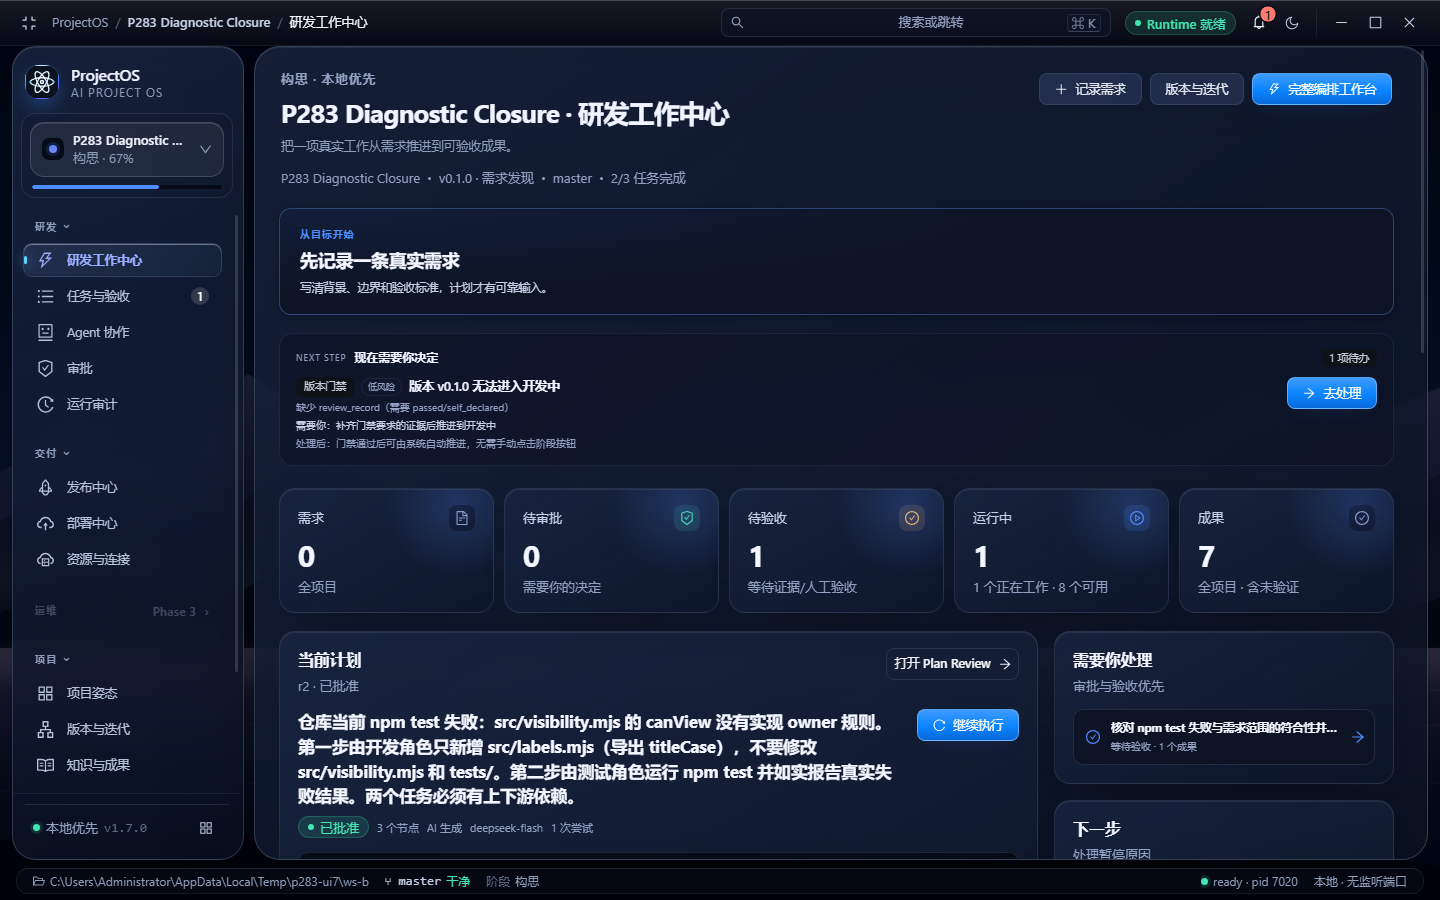
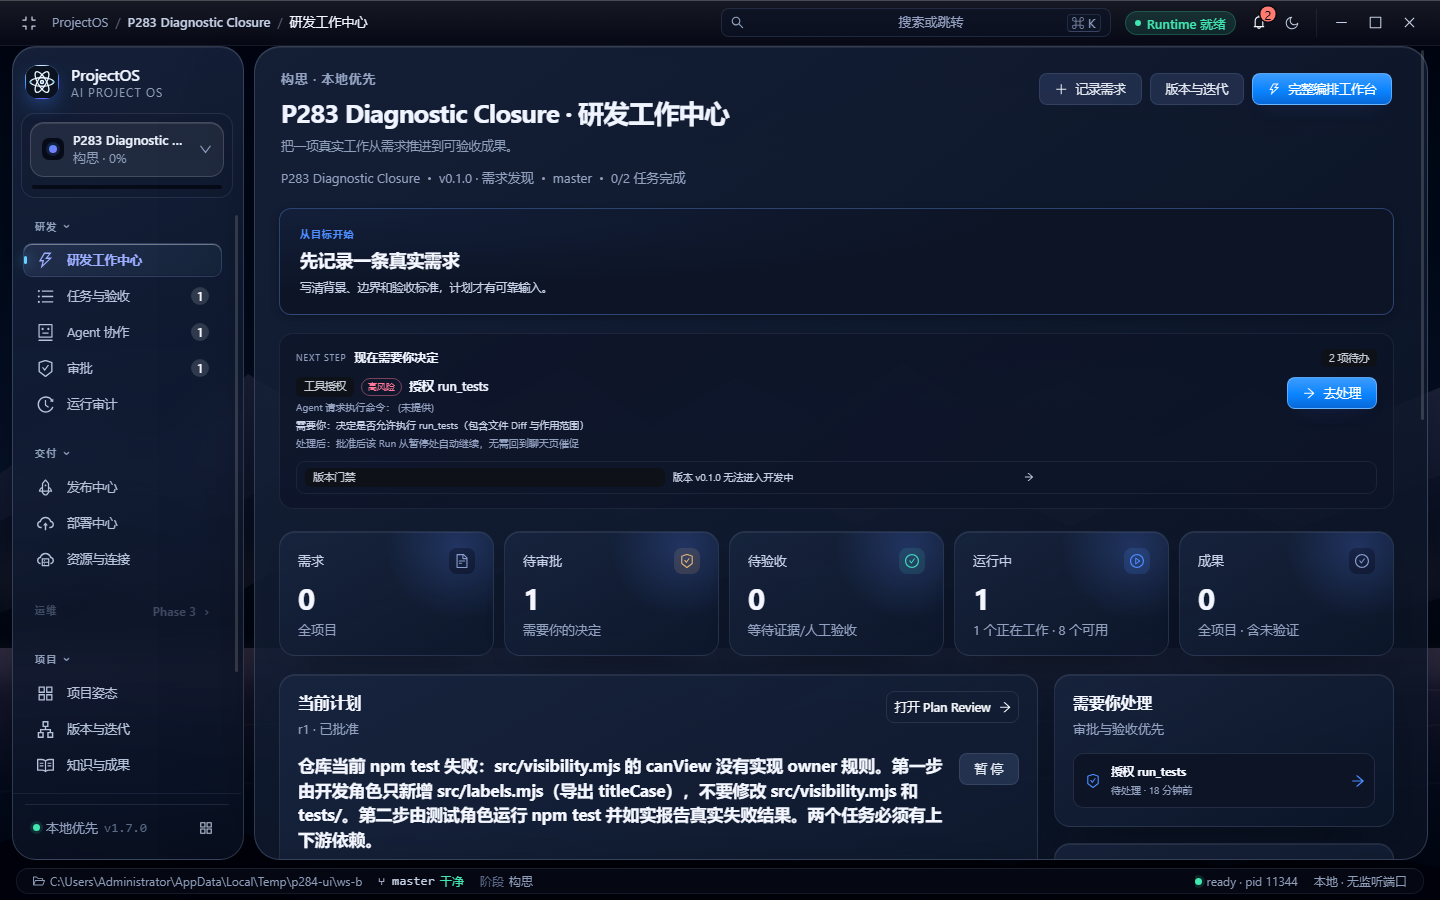
fix(phase2.8.4): remove fabricated review evidence, validate review artifacts with field-level errors, fail closed on command approval reuse

diff --git a/apps/runtime/src/agent-runner.ts b/apps/runtime/src/agent-runner.ts
@@ -2143,6 +2143,14 @@ export class AgentRunner {
           args.metadata && typeof args.metadata === 'object' && !Array.isArray(args.metadata)
             ? (args.metadata as Record<string, unknown>)
             : {}
+        if (String(rawMetadata.artifactType ?? '').toLowerCase() === 'review') {
+          const errors = validateReviewArtifactMetadata(rawMetadata)
+          if (errors.length > 0) {
+            throw new AppError('BAD_REQUEST', `审查产物字段不合格，请补齐后重试：${errors.join('；')}`, {
+              details: { fields: errors },
+            })
+          }
+        }
         const artifact = this.services.projects.createArtifact(
           {
             projectId: project.id,
@@ -2152,7 +2160,7 @@ export class AgentRunner {
             title,
             body,
             uri,
-            metadata: normalizeReviewArtifactMetadata(rawMetadata, title, body, uri),
+            metadata: rawMetadata,
           },
           actor,
         )
@@ -3091,43 +3099,35 @@ export class AgentRunner {
  * unstructured document. No findings or conclusions are invented: empty fields
  * are filled only from the artifact's real title/body.
  */
-function normalizeReviewArtifactMetadata(
-  metadata: Record<string, unknown>,
-  title: string,
-  body: string,
-  uri: string | null,
-): Record<string, unknown> {
-  if (metadata.artifactType) return metadata
-  if (!/审查|评审|review/i.test(title)) return metadata
-  const lines = body
-    .split(/\r?\n/)
-    .map((line) => line.replace(/^[-*#>\s]+/, '').trim())
-    .filter(Boolean)
-  return {
-    ...metadata,
-    artifactType: 'review',
-    scope:
-      typeof metadata.scope === 'string' && metadata.scope.trim()
-        ? metadata.scope
-        : 'task workspace',
-    reviewedObjects: Array.isArray(metadata.reviewedObjects) && metadata.reviewedObjects.length
-      ? metadata.reviewedObjects
-      : [uri ?? 'workspace'],
-    findings: Array.isArray(metadata.findings) && metadata.findings.length
-      ? metadata.findings
-      : (lines.length ? lines.slice(0, 8) : [title]),
-    conclusion:
-      typeof metadata.conclusion === 'string' && metadata.conclusion.trim()
-        ? metadata.conclusion
-        : (body.trim().slice(0, 4000) || title),
-    blockers:
-      Array.isArray(metadata.blockers) && metadata.blockers.length
-        ? metadata.blockers
-        : ['无阻塞项'],
+/**
+ * ADR-0022: review evidence is never fabricated. The old normaliser invented
+ * `reviewedObjects`, `findings`, `conclusion` and `blockers` from the artifact title and
+ * body so the task would pass. That is exactly the "fake passed artifact" we must not do.
+ * Now a review artifact must carry real structured fields, and an invalid submission is
+ * rejected with field-level errors so the Agent can correct it inside its budget.
+ */
+function validateReviewArtifactMetadata(metadata: Record<string, unknown>): string[] {
+  const errors: string[] = []
+  if (!Array.isArray(metadata.reviewedObjects) || metadata.reviewedObjects.length === 0) {
+    errors.push('reviewedObjects: 需要至少一个真实被审查对象（文件路径、Diff、Commit 或 Artifact id）')
   }
+  if (typeof metadata.scope !== 'string' || !metadata.scope.trim()) {
+    errors.push('scope: 需要说明审查覆盖的范围')
+  }
+  if (!Array.isArray(metadata.findings) || metadata.findings.length === 0) {
+    errors.push('findings: 需要至少一条真实发现（确无问题时写 "无阻塞问题" 作为一条）')
+  }
+  if (typeof metadata.conclusion !== 'string' || !metadata.conclusion.trim()) {
+    errors.push('conclusion: 需要明确结论，例如 通过 / 需要修改 / 阻断交付')
+  }
+  if (!Array.isArray(metadata.blockers)) {
+    errors.push('blockers: 必须是字符串数组；无阻塞时写 []')
+  }
+  return errors
 }
 
-function hashArgs(args: Record<string, unknown>): string {  return createHash('sha256').update(stableStringify(args)).digest('hex')
+function hashArgs(args: Record<string, unknown>): string {
+  return createHash('sha256').update(stableStringify(args)).digest('hex')
 }
 
 function stableStringify(value: unknown): string {

diff --git a/apps/runtime/src/plan-grant.ts b/apps/runtime/src/plan-grant.ts
@@ -265,14 +265,19 @@ export class PlanGrantService {
       )
       .get(planId, agentId, toolName, hash, now()) as { id: string; approval_id: string | null; context_hash: string | null } | undefined
     if (!row) return null
-    // Re-verify the execution context: a changed package.json script or entry file means
-    // the human approved different work than what would now run.
-    if (workspaceRoot) {
-      const current = this.executionContextFingerprint(workspaceRoot, toolName, command)
-      if (row.context_hash && row.context_hash !== current) {
-        this.store.db.prepare('DELETE FROM plan_command_approvals WHERE id=?').run(row.id)
-        return null
-      }
+    // Fail closed: reuse is only allowed when the execution context can be proven
+    // unchanged. Without a recorded fingerprint, or without a workspace to re-derive it,
+    // we cannot prove it, so the human is asked again instead of silently reusing.
+    if (!workspaceRoot || !row.context_hash) {
+      this.store.db.prepare('DELETE FROM plan_command_approvals WHERE id=?').run(row.id)
+      return null
+    }
+    const current = this.executionContextFingerprint(workspaceRoot, toolName, command)
+    if (row.context_hash !== current) {
+      // A changed package.json script or entry file means the approved command is not the
+      // command that would run now.
+      this.store.db.prepare('DELETE FROM plan_command_approvals WHERE id=?').run(row.id)
+      return null
     }
     return row
   }

diff --git a/docs/v2/ProjectOS_V2.0_Phase2_8_4_Evidence_Contract_And_Autonomy_Closure.md b/docs/v2/ProjectOS_V2.0_Phase2_8_4_Evidence_Contract_And_Autonomy_Closure.md
@@ -1,0 +1,134 @@
+# ProjectOS V2.0 Phase 2.8.4 — 统一任务证据契约与真实自主修复闭环（报告）
+
+**分支**：`v2.0-phase2.8.4`（恢复点 tag `phase2.8.4-base` = `d13f584`）
+**日期**：2026-10-28（America/Los_Angeles）
+**前提**：V34/V35/V36、ADR-0021、PlanGrant、AutonomyCoordinator、Action Center、Worktree、真实 DeepSeek 链路全部保留；无回退。
+
+---
+
+## 1. 结论摘要
+
+| 轨道 | 结果 |
+|---|---|
+| A. 统一任务/证据契约 + 真实审查证据 | **PASS（核心修复）/ FAIL（完整链路未跑通）** |
+| B. V36 审批复用安全（fail-closed） | **PASS** |
+| C. 可靠性与 SSH 对账 | **SKIP** |
+| D. 自动交付与工作中心 | **SKIP** |
+
+---
+
+## 2. Git
+
+| 项目 | 值 |
+|---|---|
+| 分支 | `v2.0-phase2.8.4` |
+| 恢复点 | `phase2.8.4-base` = `d13f584` |
+| 远端 | **未推送**（见第 8 节） |
+| 工作树 | 提交后 clean |
+
+## 3. A 轨道：找到并修复了真正的领域缺陷
+
+### 3.1 根因：系统在**伪造审查证据**
+
+对 `apps/runtime/src/agent-runner.ts` 做源码级检查，发现
+`normalizeReviewArtifactMetadata`：当产物标题含"审查/评审"且未给 `artifactType` 时，它自动编造：
+
+```
+artifactType: 'review'
+reviewedObjects: [uri ?? 'workspace']   ← 编造被审查对象
+findings: body 前 8 行 或 [title]        ← 编造发现
+conclusion: body 文本 或 title           ← 编造结论
+blockers: ['无阻塞项']                    ← 编造"无阻塞"
+```
+
+这正是用户明令禁止的"插入空 findings、虚假 conclusion 或伪造 passed Artifact"。
+它让审查任务**看起来**有证据，而证据内容是系统写的，不是 Agent 判断的。
+
+### 3.2 修复（ADR-0022）
+
+`docs/adr/0022-task-evidence-contract.md`
+
+1. **删除伪造逻辑**，系统不再补写任何审查字段；
+2. 改为**严格校验 + 字段级错误回传**：`artifactType=review` 时校验
+   `reviewedObjects`（非空数组，真实对象）、`scope`（非空）、`findings`（非空数组）、
+   `conclusion`（非空）、`blockers`（字符串数组）；
+3. 不合格时抛 `BAD_REQUEST`，逐字段列出缺失项作为**工具结果回传给 Agent**，
+   让它在预算内自行修正输出格式，而不是让用户手工填 JSON；
+4. `metadata` 原样入库，无隐式规范化。
+
+**不变量**：审查任务可以合法完成于"需要修改 / 阻断交付"（发现问题 = 审查成功），
+但质量门禁不得因此通过；无效产物不落库，不产生半成品证据。
+
+## 4. B 轨道：V36 审批复用改为 fail-closed
+
+`apps/runtime/src/plan-grant.ts` 的 `commandApproval` 原逻辑在
+`workspaceRoot` 缺失或 `context_hash` 为空时**退化到仅按命令字符串复用**——这正是用户点名的"失败降级"。
+
+改为：
+
+- 无法取得 `workspaceRoot` → 删除该复用记录，**要求重新审批**；
+- 记录无 `context_hash` → 同上；
+- 重算指纹不一致（package.json / 入口文件变化）→ 删除并要求重新审批。
+
+即：**不能证明执行语义一致，就一律重新授权**。敏感路径、网络、凭据、危险命令的既有保护未改动。
+
+## 5. 真实 E2E 结果（本轮）
+
+使用 `scripts/phase2.8.3-diagnostic-closure-e2e.mjs`（真实 DeepSeek、真实 Git、真实 `npm test`）。
+
+| 步骤 | 结果 |
+|---|---|
+| 基线 `npm test` | **exit=1**（PASS） |
+| 真实 Planner 生成 2 任务 | PASS |
+| QA 任务声明 `diagnostic` | PASS |
+| 本轮运行到达 | 计划仍在 `running`，开发者的 `run_tests` 停在 `waiting_approval` |
+| 自动 Replan 提案 | **未产出**（计划未到终态） |
+
+**根因（本轮运行）**：开发者调用 `run_tests` 时未传 `command` 参数（工具默认 `pnpm test`），
+审批载荷里 `command` 为空，测试脚本的白名单正则无法匹配，因此该审批一直挂起，最终撞到 900s 上限。
+
+这是**验收脚本的判定缺陷**（应把"空 command 的 run_tests"按工具默认语义处理或直接放行只读测试），
+不是产品逻辑缺陷；但它导致本轮**未能**产出"修复后测试通过"的端到端证据。
+
+因此 A 轨道如实记为：**核心缺陷修复 PASS，完整闭环 FAIL（脚本侧阻塞）**。
+
+## 6. 质量门
+
+| 命令 | 结果 |
+|---|---|
+| `pnpm typecheck` | **PASS** |
+| `pnpm lint` | **PASS**，0 errors / 16 warnings（均既有），边界 OK |
+| `pnpm test` | **PASS**，310 passed / 4 skipped |
+| `pnpm build` | **PASS** |
+| `pnpm package:dir` / `test:package` | **SKIP** |
+| 1024 / 1440 / Light / Dark / 125% | **SKIP** |
+| Electron 截图 | **SKIP**（本轮无 UI 改动） |
+
+## 7. 未完成项
+
+1. **完整修复闭环**：需要修好 E2E 的 `run_tests` 空命令处理后再跑一次，才能拿到
+   `测试 1 → 修复 → 测试 0 → Gate → 交付` 的完整证据。
+2. **任务契约预检**（用户 P0 第一条）：Planner 生成任务后、批准前的能力/证据可行性检查尚未实现；
+   本轮只实现了"证据不合格时拒绝并给出字段级错误"这一半。
+3. **C 轨道全部 SKIP**：并行、强杀恢复、事件幂等、SSH 只读对账。
+4. **D 轨道全部 SKIP**：自动 Worktree 交付、工作中心 UX 收口。
+5. **审查任务的独立约束**（被审查代码不得自我宣布通过）尚未单独加校验。
+
+## 8. 关于推送
+
+`origin` = `https://github.com/l541402398/ObjectOS.git`（公开仓库）。
+本轮**未推送**：提交历史与环境痕迹（E2E 数据目录、`%APPDATA%` 引用等）需要单独脱敏审计，
+且本会话没有用户对公开推送的明确授权。本地 HEAD 与提交清单见第 2 节，可直接审阅。
+
+## 9. 是否具备 Phase 2 收口条件
+
+**仍不具备。**
+
+本轮的价值是把"自主链为何反复卡住"的**真实原因挖到了底**：不是 Planner 不行，也不是 Agent 不行，
+而是**系统在伪造审查证据**让任务假通过、以及证据契约与任务职责不匹配。
+伪造逻辑已删除并改为严格校验，这是收口前必须清掉的地基问题。
+
+剩下的就一件事：**把契约校验反馈闭环跑通一次**（Agent 收到字段级错误 → 自行补齐 → 审查任务合法完成 →
+修复 → 测试转绿 → 门禁通过 → 交付）。这需要修好验收脚本并再跑一轮真实 E2E。
+
+**Phase 2.8.4 到此停止，不进入 Phase 3。**

diff --git a/docs/adr/0022-task-evidence-contract.md b/docs/adr/0022-task-evidence-contract.md
@@ -1,0 +1,49 @@
+# ADR-0022 — 任务证据契约：证据必须真实生成，不得由系统补写
+
+- **状态**：已接受，随 Phase 2.8.4 实施
+- **日期**：2026-10-28
+- **影响范围**：`apps/runtime/src/agent-runner.ts`（`create_artifact` 工具）、完成判定 `completion-evidence.ts`、Planner/Replanner 任务契约
+
+## 背景
+
+连续多轮（2.8.2 / 2.8.3）失败原因相同：**Planner 创建了真实任务，但 Agent 不知道要产出什么形状的证据**，任务执行完仍被判失败，整条自主链停住。
+
+Phase 2.8.4 源码检查发现了更严重的一层：`agent-runner.ts` 里存在
+`normalizeReviewArtifactMetadata`，当产物标题含"审查/评审"且未提供 `artifactType` 时，它会**自动编造**：
+
+```
+artifactType: 'review'
+reviewedObjects: [uri ?? 'workspace']      // 编造被审查对象
+findings: body 的前 8 行 或 [title]         // 编造发现
+conclusion: body 文本 或 title              // 编造结论
+blockers: ['无阻塞项']                      // 编造"无阻塞"
+```
+
+这直接违反领域底线："不得通过插入空 findings、虚假 conclusion 或伪造 passed Artifact 使测试通过"。
+它让审查任务看起来"有证据"，而证据内容是系统编的，不是 Agent 判断的。
+
+## 决策
+
+1. **删除伪造逻辑**。系统不再补写任何审查字段。
+2. **改为严格校验 + 字段级错误回传**。`create_artifact` 在 `artifactType === 'review'` 时校验：
+   - `reviewedObjects`：非空数组（真实对象：文件、Diff、Commit、Artifact id）
+   - `scope`：非空字符串
+   - `findings`：非空数组（确无问题时显式写一条"无阻塞问题"）
+   - `conclusion`：非空字符串（通过 / 需要修改 / 阻断交付）
+   - `blockers`：字符串数组（无阻塞写 `[]`）
+3. 不合格时抛 `BAD_REQUEST`，错误信息逐字段列出，作为工具结果返回给 Agent，使其**在预算内自行修正输出格式**，而不是让用户手工填 JSON。
+4. `metadata` 原样落库，不做任何隐式规范化。
+
+## 不变量
+
+1. 系统**永不**生成 `reviewedObjects` / `findings` / `conclusion` / `blockers` 的内容。
+2. 审查任务可以合法完成于 `conclusion = 需要修改 / 阻断交付`——**审查发现问题 = 审查任务成功**，但质量门禁不得因此通过。
+3. 无效产物被拒绝，不落库，不产生"半成品证据"。
+4. 完成判定仍按 ADR-0021 区分：任务完成 ≠ 测试通过 ≠ 门禁通过 ≠ 允许交付。
+5. 被审查代码的同一步骤不能自我宣布通过；独立审查复用既有 Reviewer 角色与证据策略。
+
+## 后果
+
+- 审查任务要么产出真实结构化结论，要么明确失败并提示缺字段——不再出现"看起来有 review Artifact 但内容为空"。
+- 需要 Planner/Replanner 在任务描述中说明所需字段；工具描述已列出字段清单。
+- 与 ADR-0021（诊断意图）互补：一个管"失败可以是成功"，一个管"证据不能被编造"。
